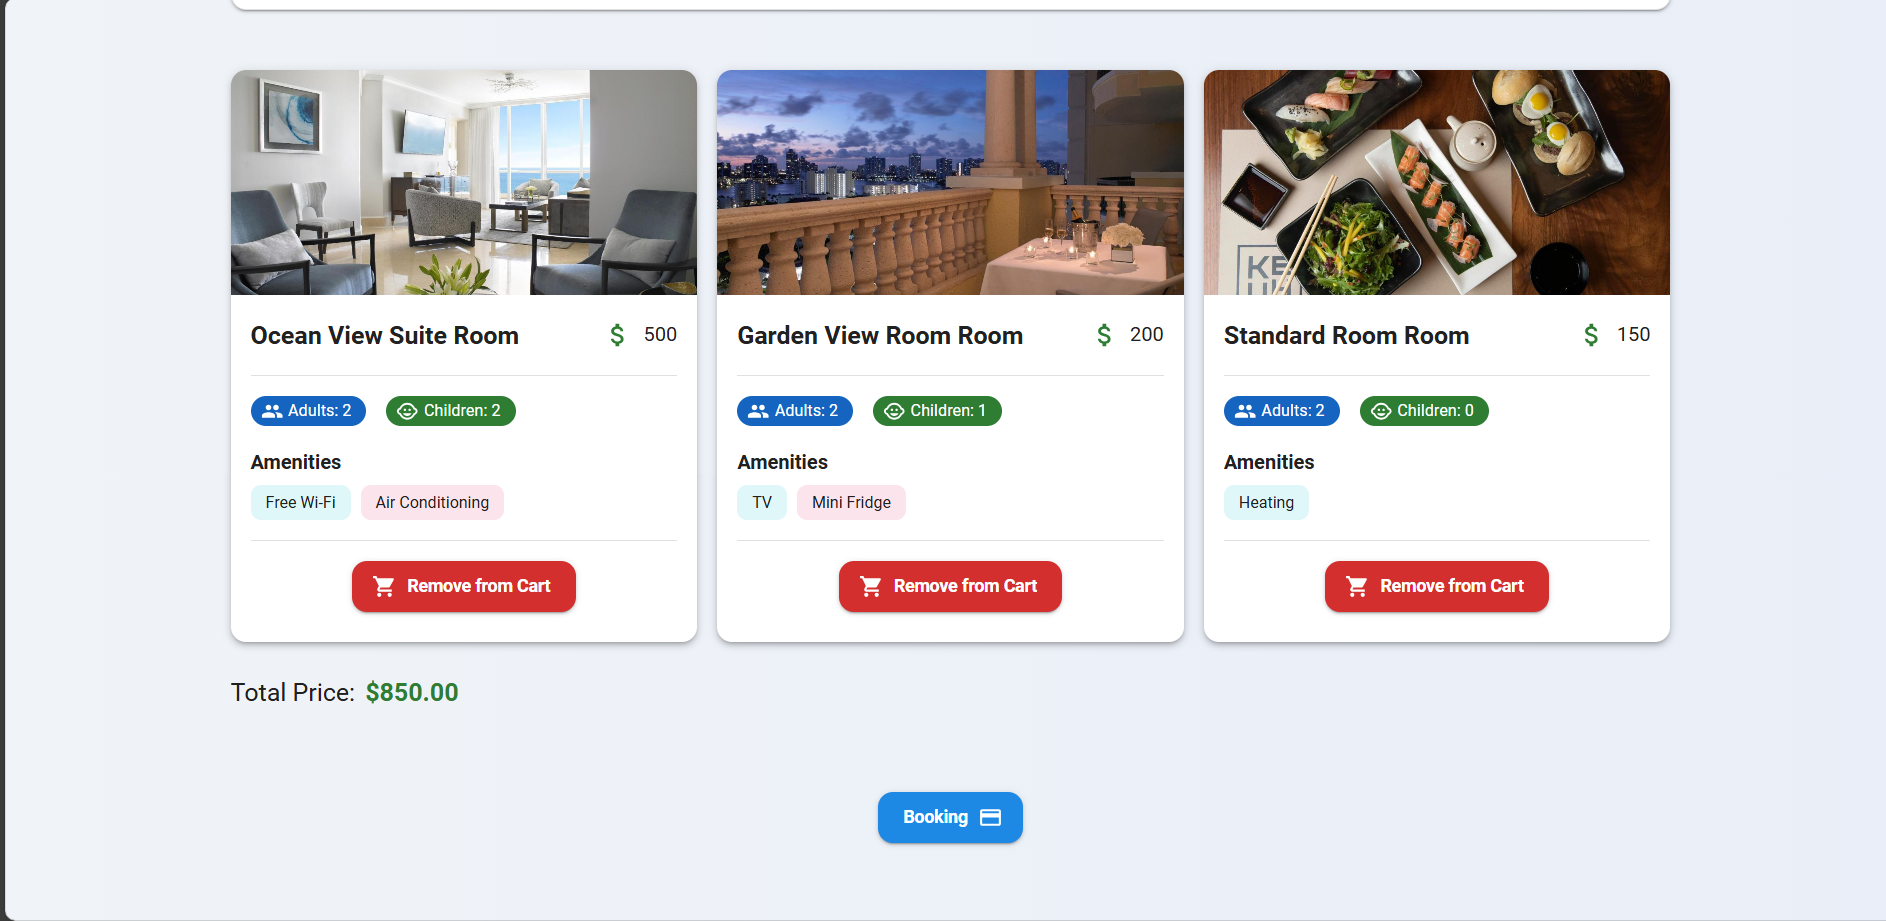
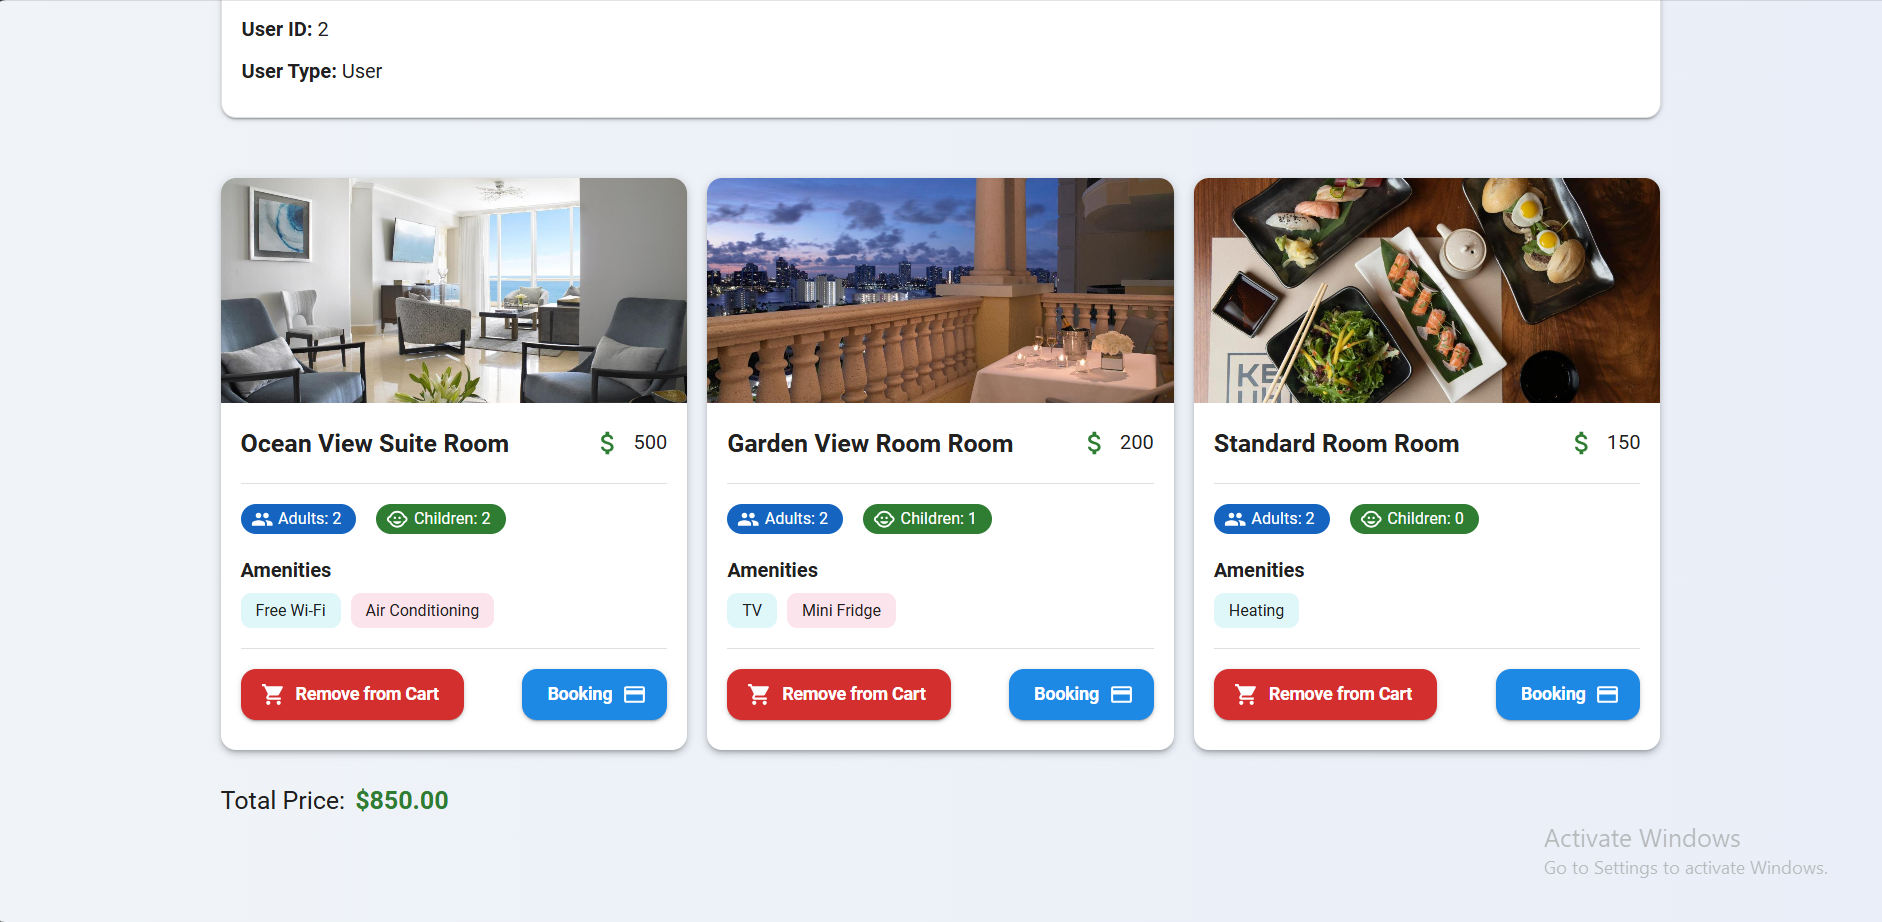
TAABP-45 Modify Checkout Page

diff --git a/src/pages/Checkout/components/CheckoutButton.tsx b/src/pages/Checkout/components/CheckoutButton.tsx
@@ -7,7 +7,11 @@ import { initialValues } from "../constants";
 import useAddBookingAPI from "../hooks/useAddBookingAPI";
 import CheckoutFormDialog from "./CheckoutFormDialog";
 
-function CheckoutButton() {
+interface CheckoutButtonProps {
+  roomNumber: number;
+}
+
+function CheckoutButton({ roomNumber }: CheckoutButtonProps) {
   const [open, setOpen] = useState(false);
   const { addBooking, isPending } = useAddBookingAPI();
   const handleClose = () => setOpen(false);
@@ -15,17 +19,20 @@ function CheckoutButton() {
   const handleAdd = (
     values: BookingPayload,
     helpers: FormikHelpers<BookingPayload>
-  ) => {
-    addBooking(values, {
-      onSuccess: () => {
-        helpers.resetForm();
-        handleClose();
-      },
-    });
+  ) => {    
+    addBooking(
+      { ...values, roomNumber },
+      {
+        onSuccess: () => {
+          helpers.resetForm();
+          handleClose();
+        },
+      }
+    );
   };
 
   return (
-    <Box display="flex" justifyContent="center" alignItems="center" my={5}>
+    <Box display="flex" justifyContent="center" alignItems="center">
       <Button
         variant="contained"
         endIcon={<PaymentIcon />}

diff --git a/src/components/GenericFormDialog/GenericFormDialog.tsx b/src/components/GenericFormDialog/GenericFormDialog.tsx
@@ -47,13 +47,13 @@ const GenericFormDialog = <T extends FormikValues>({
             <Stack gap={2}>{children}</Stack>
           </DialogContent>
           <DialogActions
-            sx={{ px: 3, pb: 2, display: "flex", justifyContent: "flex-start" }}
+            sx={{ px: 3, pb: 2, display: "flex", justifyContent: "flex-end" }}
           >
-            <Button type="submit" variant="contained" loading={isPending}>
-              {ButtonLabel}
-            </Button>
             <Button variant="contained" color="error" onClick={closeDialog}>
               Cancel
+            </Button>
+            <Button type="submit" variant="contained" loading={isPending}>
+              {ButtonLabel}
             </Button>
           </DialogActions>
         </Form>

diff --git a/src/pages/Checkout/components/CheckoutFormContent.tsx b/src/pages/Checkout/components/CheckoutFormContent.tsx
@@ -22,17 +22,6 @@ const CheckoutFormContent = () => {
         <Grid size={{ xs: 12, sm: 6 }}>
           <TextField name="customerName" aria-label="Enter a Customer Name" />
         </Grid>
-        <Grid size={{ xs: 12, sm: 6 }}>
-          <TextField name="hotelName" aria-label="Enter a Hotel Name" />
-        </Grid>
-      </FormSection>
-      <FormSection title="Room Info">
-        <Grid size={{ xs: 12, sm: 6 }}>
-          <TextField name="roomNumber" aria-label="Enter a Room Number" />
-        </Grid>
-        <Grid size={{ xs: 12, sm: 6 }}>
-          <TextField name="roomType" aria-label="Enter a Room Type" />
-        </Grid>
       </FormSection>
       <FormSection title="Payment">
         <Grid size={{ xs: 12 }}>

diff --git a/src/pages/Checkout/Checkout.tsx b/src/pages/Checkout/Checkout.tsx
@@ -3,7 +3,6 @@ import { Stack, Typography, Box } from "@mui/material";
 import ShoppingCartCheckoutIcon from "@mui/icons-material/ShoppingCartCheckout";
 import CartItems from "./components/CartItems";
 import UserInformation from "./components/UserInformation";
-import CheckoutButton from "./components/CheckoutButton";
 import { useAppSelector } from "@/store/store";
 import { selectCartItemsCount, selectTotalPrice } from "@/features/Cart";
 import routeHOC from "@/routes/HOCs/routeHOCs";
@@ -44,7 +43,6 @@ const Checkout = () => {
             </Typography>
           </Box>
         )}
-        {cartLength !== 0 && <CheckoutButton />}
       </Stack>
     </PageContainer>
   );

diff --git a/src/pages/Checkout/hooks/useAddBookingAPI.ts b/src/pages/Checkout/hooks/useAddBookingAPI.ts
@@ -16,7 +16,11 @@ const useAddBookingAPI = () => {
       });
       //Since the response body doesn't include a booking ID, it's currently hardcoded to 1
       navigate(`/me/confirmation/1`);
-      setTimeout(() => clearCart(), 1000);
+      // const roomNumber = payload.roomNumber
+      // setTimeout(() => removeFromCart({roomNumber}), 1000);
+      
+      //Since the response body doesn't include roomNumber to remove it from the cart, i will remove all the rooms :3
+       setTimeout(() => clearCart(), 1000);
     },
   });
   return {

diff --git a/src/pages/Checkout/formSchema.ts b/src/pages/Checkout/formSchema.ts
@@ -3,9 +3,7 @@ import { BookingPayload } from "./types";
 
 export const bookingSchema: yup.ObjectSchema<BookingPayload> = yup.object({
   customerName: yup.string().required("Customer name is required"),
-  hotelName: yup.string().required("Hotel name is required"),
-  roomNumber: yup.string().required("Room number is required"),
-  roomType: yup.string().required("Room type is required"),
+  roomNumber: yup.number().required(),
   bookingDateTime: yup
     .string()
     .required("Booking date and time is required")

diff --git a/src/pages/Checkout/constants.ts b/src/pages/Checkout/constants.ts
@@ -3,10 +3,8 @@ import { BookingPayload, PaymentMethod } from "./types";
 export const initialValues: BookingPayload = {
   bookingDateTime: "",
   customerName: "",
-  hotelName: "",
   paymentMethod: "",
-  roomNumber: "",
-  roomType: "",
+  roomNumber: 2,
   totalCost: 1,
 };
 
@@ -19,11 +17,11 @@ export const paymentMethods: Array<PaymentMethod> = [
   {
     name: "Master Card",
     value: "Master Card",
-    id: 2
+    id: 2,
   },
   {
     name: "Cash",
     value: "Cash",
-    id: 3
+    id: 3,
   },
 ];

diff --git a/src/pages/Checkout/types.ts b/src/pages/Checkout/types.ts
@@ -2,9 +2,7 @@ import { BaseAutoCompleteItem } from "@/components/Fields/AutoCompleteField/type
 
 export interface BookingPayload {
   customerName: string;
-  hotelName: string;
-  roomNumber: string;
-  roomType: string;
+  roomNumber: number;
   bookingDateTime: string;
   totalCost: number;
   paymentMethod: string;

diff --git a/src/pages/Checkout/components/CartItems.tsx b/src/pages/Checkout/components/CartItems.tsx
@@ -16,7 +16,7 @@ const CartItems = () => {
 
   const renderCartItems = cart.map(({ room }) => (
     <Grid size={{ xs: 12, sm: 6, md: 4 }} key={room.roomId}>
-      <HotelRoom room={room} />
+      <HotelRoom room={room} isBooking={true} />
     </Grid>
   ));
   return (
